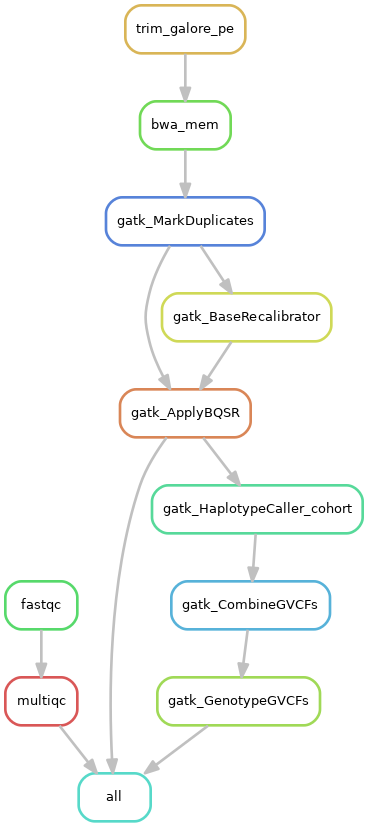
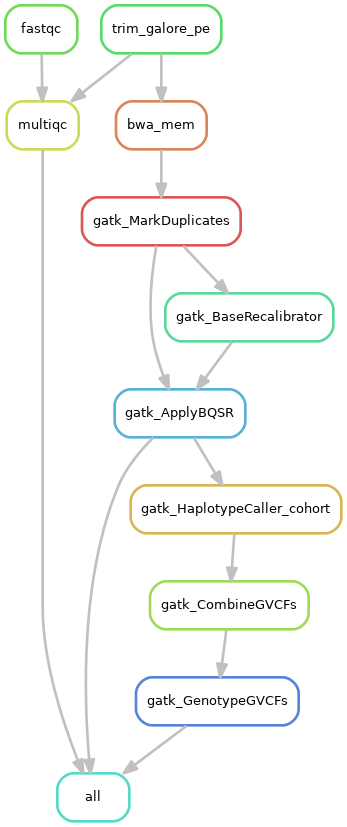
Integrate trimming reports into multiqc report

Changed region(s): [[0.0, 0.0, 1.0, 0.9976], [0.2594, 0.6651, 0.2882, 0.7255]]

diff --git a/workflow/report/quality_checks.rst b/workflow/report/quality_checks.rst
@@ -1,1 +1,1 @@
-`FastQC <https://www.bioinformatics.babraham.ac.uk/projects/fastqc/>`_ report (compiled into a `MultiQC report <https://multiqc.info/>`_) providing general statistics on the sequence data (after trimming)
+`FastQC <https://www.bioinformatics.babraham.ac.uk/projects/fastqc/>`_ report (compiled into a `MultiQC report <https://multiqc.info/>`_) providing general quality statistics on the sequence data and fastq trimming (if undertaken)
